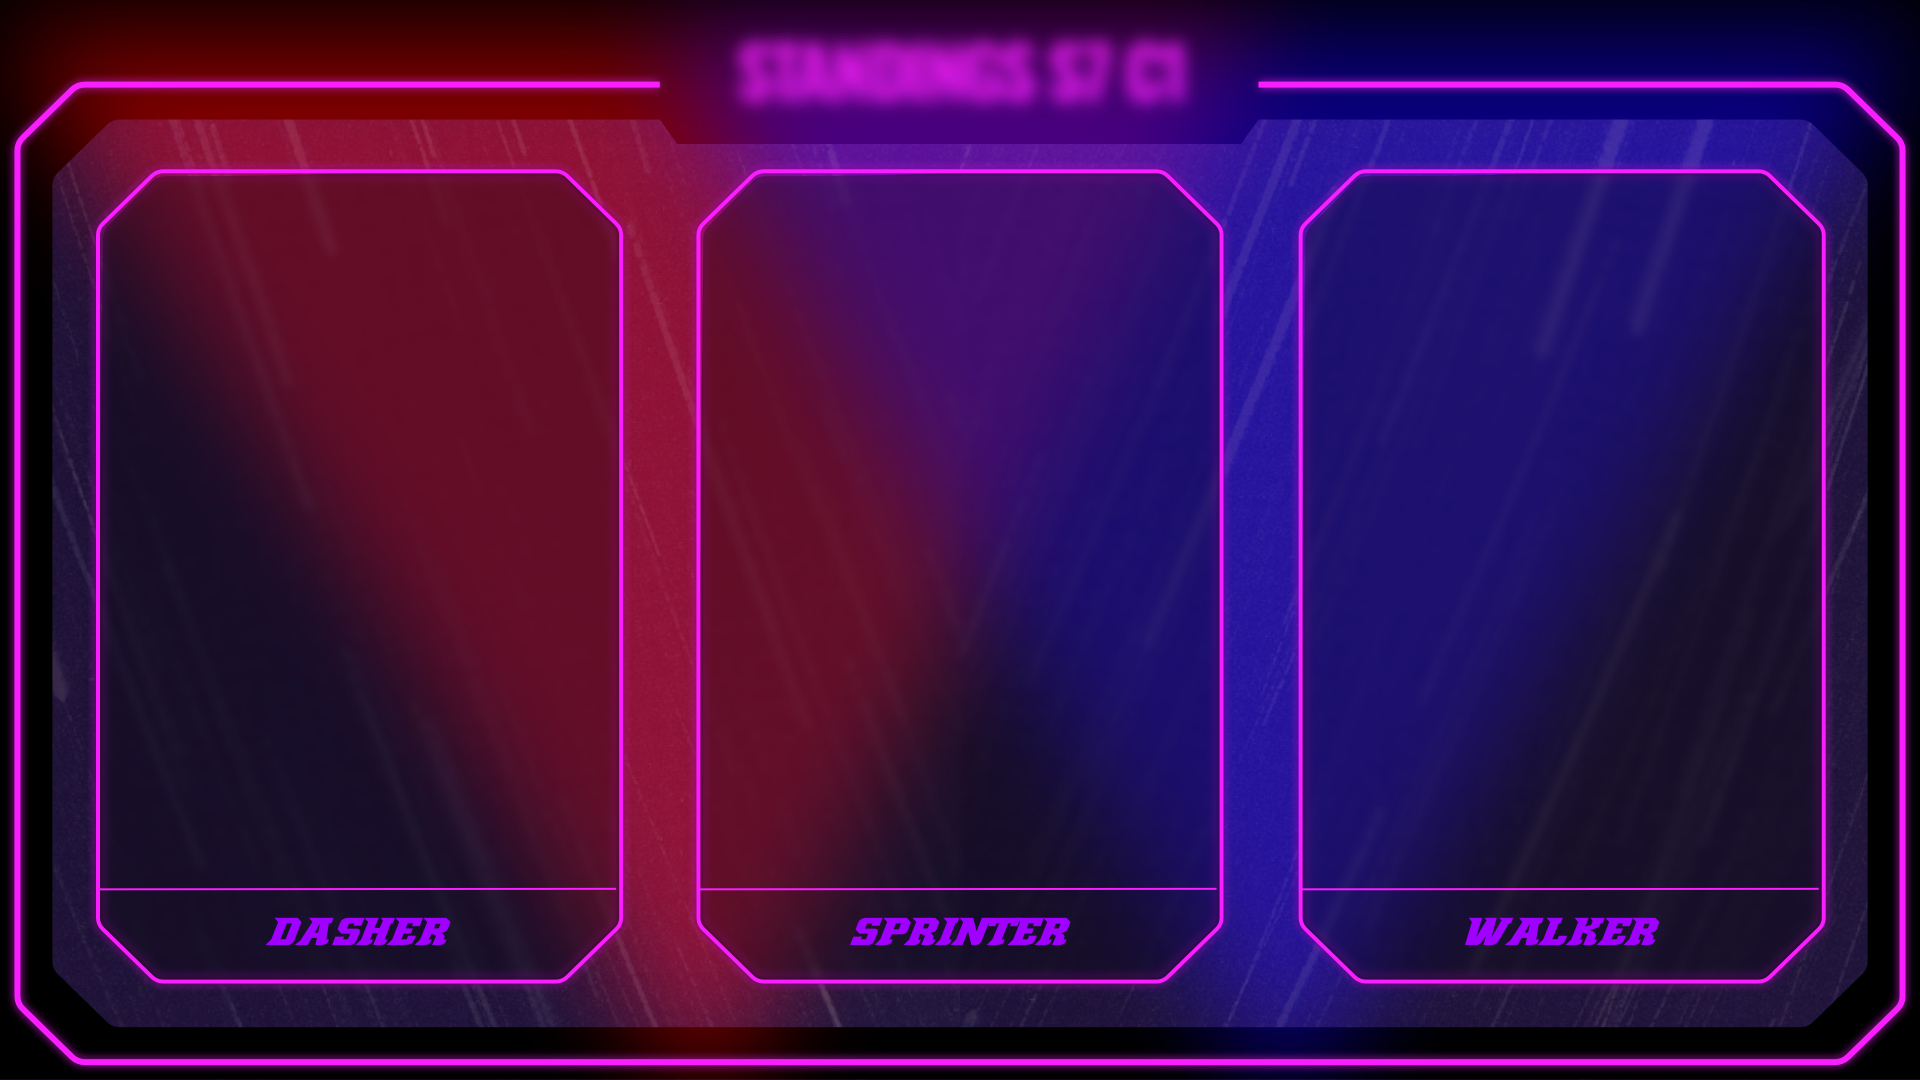
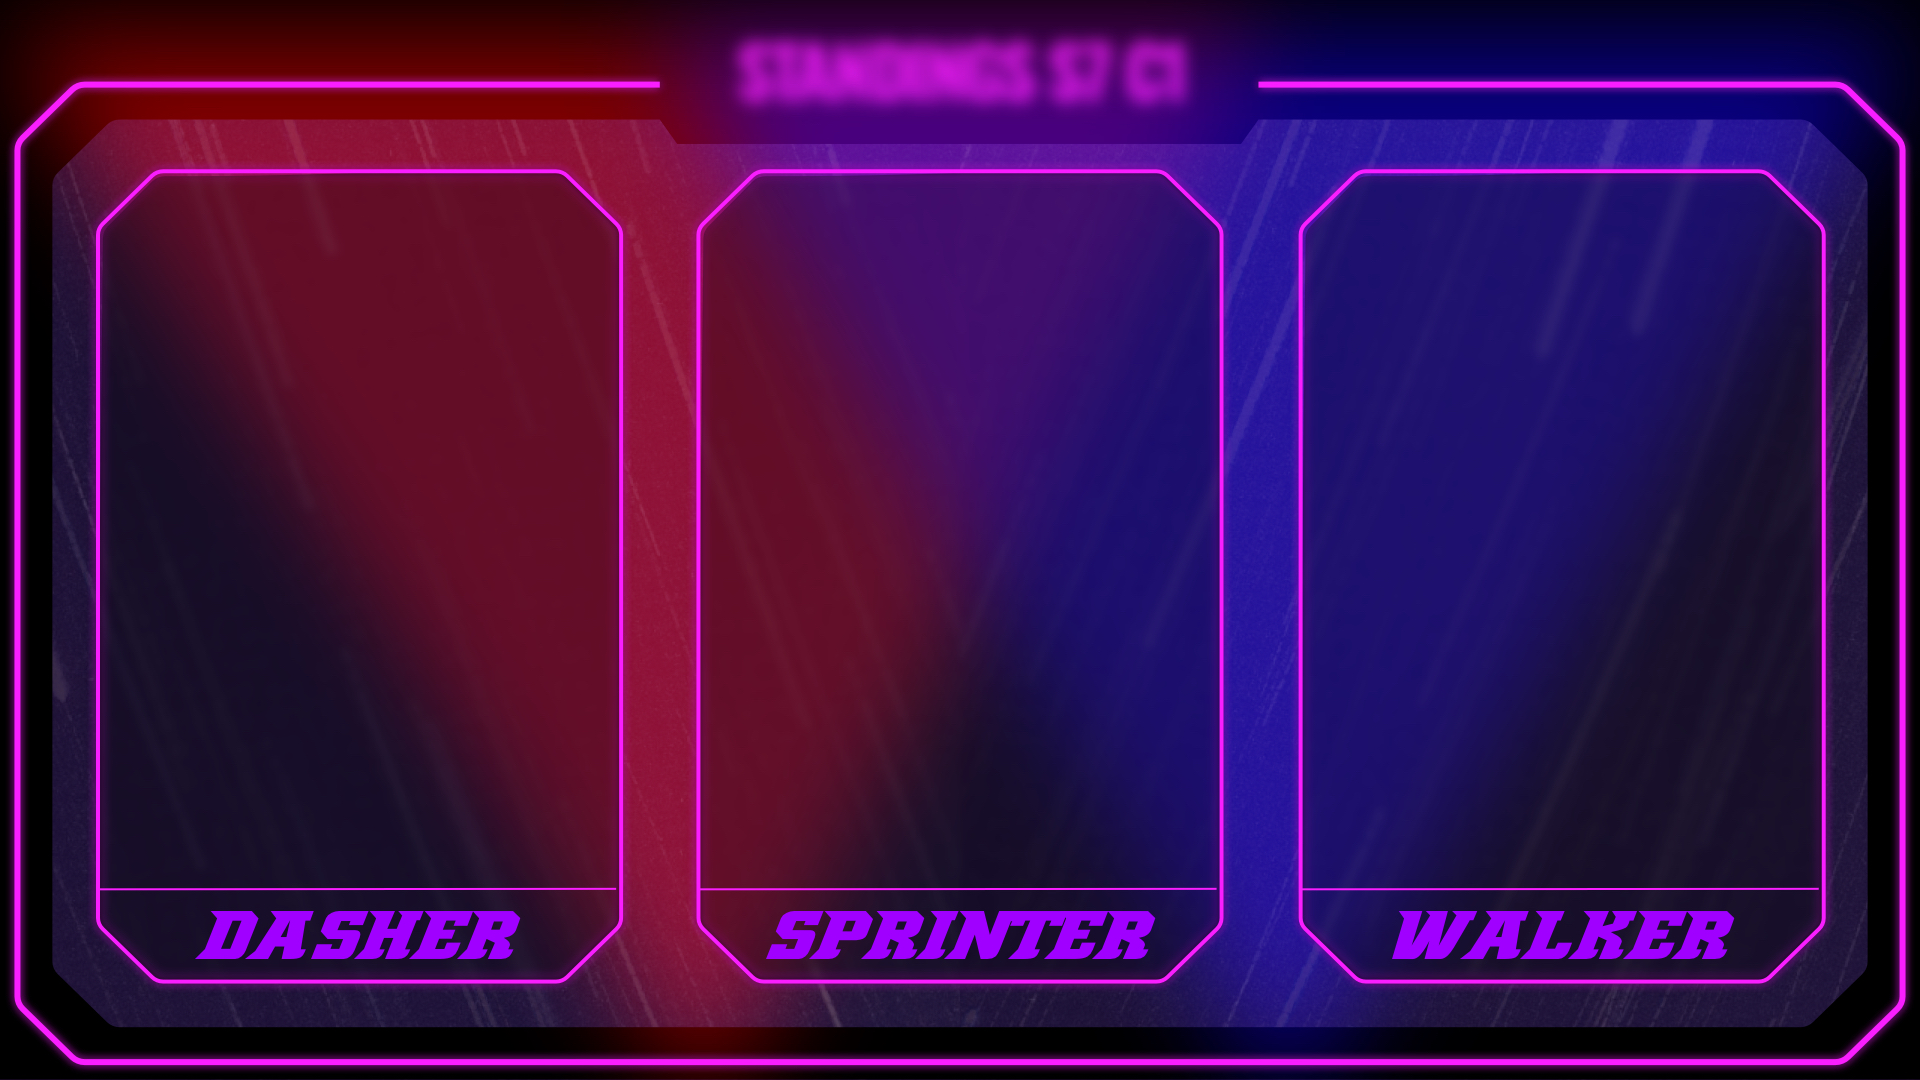
Updated standings to show movement between tiers and position inside tiers.

Changed region(s): [[0.4062, 0.825, 0.625, 0.8861], [0.7188, 0.825, 0.9062, 0.8861], [0.0938, 0.825, 0.2812, 0.8861]]

diff --git a/templates/page-tiers-nowrap.php b/templates/page-tiers-nowrap.php
@@ -3,13 +3,18 @@
   
   $pxl->season_dates();
   
-  $cycle = isset($_GET['cycle']) ? $_GET['cycle'] : $pxl->cycle;
-  $tiers = $pxl->api->data_tiers(array('cycle' => $cycle, 'mmr' => TRUE));
+  $cycle  = isset($_GET['cycle']) ? $_GET['cycle'] : $pxl->cycle;
+  $season = isset($_GET['season']) ? $_GET['season'] : $pxl->season['number'];
+  $tiers  = $pxl->api->data_tiers(array('cycle' => $cycle, 'mmr' => TRUE));
   
   if ( !$tiers ) {
     printf("<h2>No Data for Cycle %d</h2>", $cycle);
     die;
   }
+  
+  $tiers_last = $cycle > 1 ? $pxl->api->data_tiers(array('cycle' => ($cycle - 1), 'mmr' => TRUE)) : FALSE;
+  
+  if ( $tiers_last ) $tiers_last = array_values($tiers_last);
   
   $sizes = [
     'discord' => [ 'height' => 619, 'width' => 1100, 'heading_top' => 8, 'heading_size' => 48, 'gap' => 49, 'grid' => '75px 57px 54px 35px', 'sides' => 58, 'bottom' => 111, 'top' => 100, 'size' => 20 ],
@@ -22,6 +27,8 @@
   body{background-color:#111;min-height:100vh;}
   .box{display:flex;flex-direction:row-reverse;font-family:'Oswald',sans-serif;overflow:hidden;}
   
+  .tiers *{line-height:120%;}
+  
   .clone{position:relative;}
   .clone img{display:block;}
   .clone .title{color:#fff;font-weight:600;left:0;letter-spacing:-3px;position:absolute;right:0;text-align:center;white-space:nowrap;}
@@ -30,7 +37,6 @@
   .tier{display: grid;}
   .tier__teams{list-style-type:none;margin:0;padding:0;}
   .tier__team{align-items:center;display:grid;justify-content:space-between;}
-  .tier__team--header{align-content:end;}
   .tier__team + .tier__team{border-top:2px solid #F81EFF;}
   .tiers + canvas{padding:0;}
   .tiers .wp-block-group__inner-container{display:flex;}
@@ -56,11 +62,39 @@
       $tiers_rows = '';
       
       if ( $tiers ) {
+        $tiers_index = array_keys($tiers);
+        
         foreach ($tiers as $tier => $data) {
+          $index = array_search($tier, $tiers_index);
           $teams = array();
           
-          foreach ($data as $team) {
-            $teams[] = sprintf('<strong>%s</strong><span>%s</span><span>%s</span><span>+</span>', $team['name'], $team['mmr'], $team['sr']);
+          $teams_current = array_keys(array_column($data, NULL, 'name'));
+          
+          if ( $tiers_last ) {
+            $up         = $index == 0 ? FALSE : array_column($tiers_last[$index-1], NULL, 'name');
+            $down       = $index == 2 ? FALSE : array_column($tiers_last[$index+1], NULL, 'name');
+            $tier_last  = array_column($tiers_last[$index], NULL, 'name');
+            $teams_last = array_keys($tier_last);
+          }
+          
+          $diff = $tiers_last ? array_diff($teams_current, $teams_last) : [];
+          
+          foreach ($data as $pos => $team) {
+            if ( in_array($team['name'], $diff) ) {
+              if ( $up && isset($up[$team['name']]) ) $change = "&darr;";
+              elseif ( $down && isset($down[$team['name']]) ) $change = "&uarr;";
+              else $change = '';
+            }
+            else if ( $tiers_last ) {
+              $pos_last = array_search($team['name'], array_keys($tier_last));
+              
+              if ( $pos < $pos_last ) $change = '+';
+              elseif ($pos > $pos_last ) $change = '-';
+              else $change = '';
+            }
+            else $change = '';
+            
+            $teams[] = sprintf('<strong>%s</strong><span>%s</span><span>%s</span><span>%s</span>', $team['name'], $team['mmr'], $team['sr'], $change);
           }
           
           $tiers_rows .= sprintf(
@@ -86,7 +120,7 @@
           </div>
         ',
         $type,
-        $pxl->season['number'], $cycle,
+        $season, $cycle,
         $tiers_rows,
         RES . '/images/dl-tiers-' . $type . '-' . ($_GET['style'] ?? 'a')
       );
@@ -96,19 +130,19 @@
 
 <script>
   var boxes = document.querySelectorAll('.box');
-  
-  boxes.forEach((box) => {
-    var clone = box.querySelector('.clone');
-    
-    html2canvas(clone, {
-      width: clone.clientWidth,
-      height: clone.clientHeight,
-      scale: 1,
-      useCORS: true,
-      imageTimeout: 0,
-      allowTaint: true
-    }).then(function(canvas) {
-      box.appendChild(canvas);
-    });
-  });
+
+  // boxes.forEach((box) => {
+  //   var clone = box.querySelector('.clone');
+  //
+  //   html2canvas(clone, {
+  //     width: clone.clientWidth,
+  //     height: clone.clientHeight,
+  //     scale: 1,
+  //     useCORS: true,
+  //     imageTimeout: 0,
+  //     allowTaint: true
+  //   }).then(function(canvas) {
+  //     box.appendChild(canvas);
+  //   });
+  // });
 </script>

diff --git a/includes/class.api.php b/includes/class.api.php
@@ -212,26 +212,26 @@
       public function data_tiers( $data = array() ) {
         global $pxl, $wpdb;
         
-        $params = array_merge($data, $_GET);
+        $params = array_merge($_GET, $data);
         $items  = array();
         
         if ( isset($params['cycle']) && !$params['cycle'] ) return FALSE;
         
-        $cycles    = $wpdb->get_results($wpdb->prepare("SELECT cycle as num, start, end FROM dl_tiers WHERE season = %s GROUP BY cycle ORDER BY cycle ASC", $pxl->season['number']), ARRAY_A);
+        $season = isset($params['season']) ? $params['season'] : $pxl->season['number'];
+        $cycles = $wpdb->get_results($wpdb->prepare("SELECT cycle as num, start, end FROM dl_tiers WHERE season = %s GROUP BY cycle ORDER BY cycle ASC", $season), ARRAY_A);
+        
         $cycle_num = isset($params['cycle']) ? $params['cycle'] : 1;
         $cycle_key = $cycle_num - 1;
         $cycle     = $cycles[$cycle_key] ?? FALSE;
         
         if ( ! $cycle ) return FALSE;
         
-        $season = isset($params['season']) ? $params['season'] : $pxl->season['number'];
-        
         $teams = implode(',', get_posts(array(
           'post_type'      => 'team',
           'posts_per_page' => -1,
           'order'          => 'ASC',
           'orderby'        => 'title',
-          'season'         => isset($params['season']) ? "season-{$season}": 'current',
+          'season'         => isset($params['season']) && $params['season'] !== $pxl->season['number'] ? "season-{$season}": 'current',
           'fields'         => 'ids'
         )));
         
